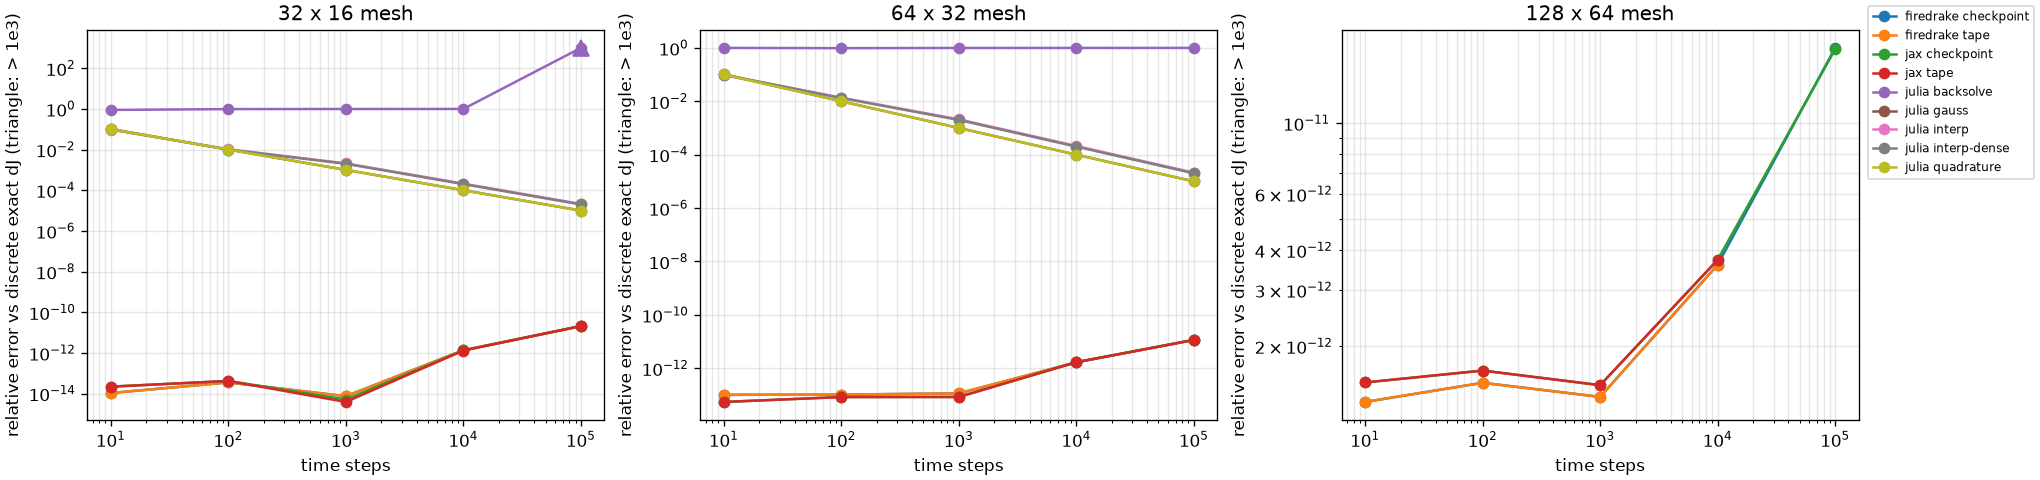
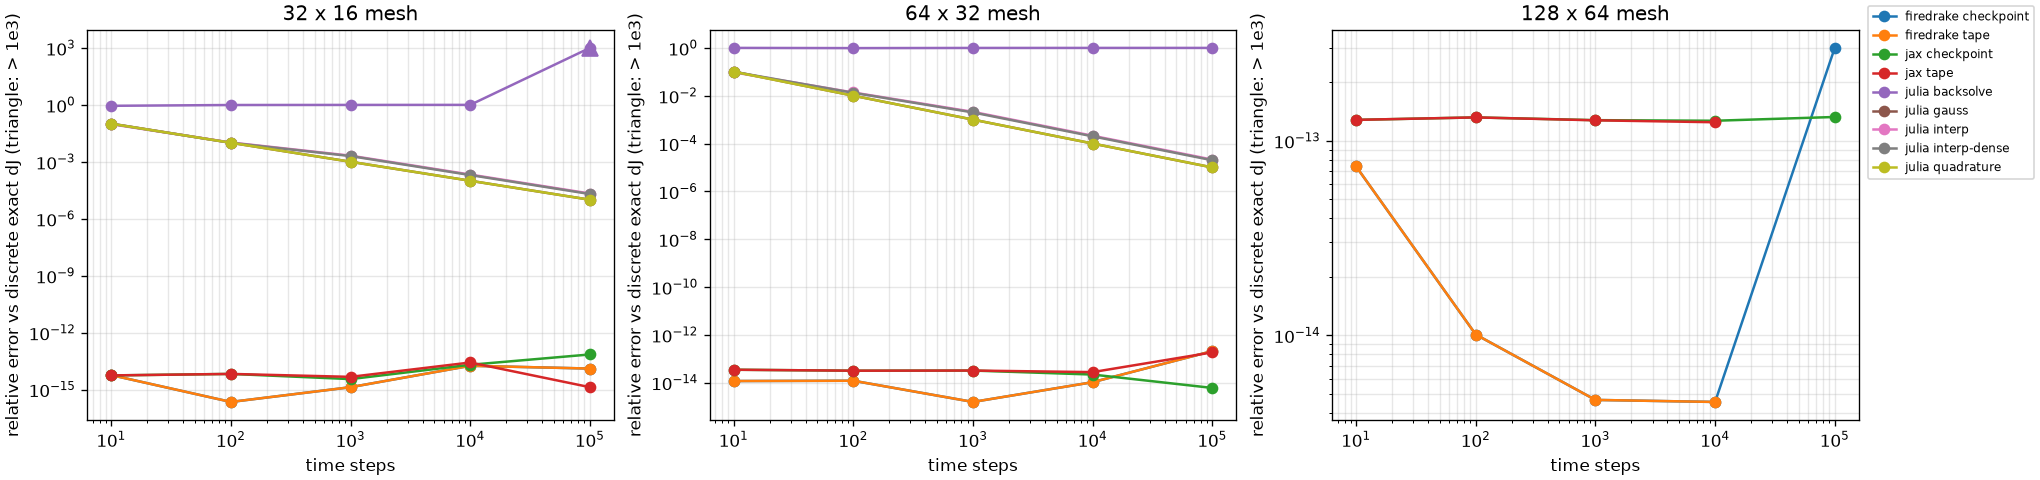
T4 run 1 (a growing tape's device memory equals XLA's memory analysis; tape refused at 128x64/1e5; gradients equal to the CPU run's) and an exact discrete reference in closed form with log1p (the eigh one was up to 2e-11 off)

diff --git a/spike/problem.py b/spike/problem.py
@@ -102,26 +102,28 @@ def discrete_exact(p: Problem, steps: int) -> tuple[float, float]:
 
     The Q1 matrices are tensor products, K = k0 (Kx (x) My + Mx (x) Ky) and M = Mx (x) My, and Ky annihilates
     constants. The initial temperature is a function of x alone, f (x) 1, so every backward Euler step stays of that
-    form and reduces to (Mx + dt k0 Kx) f_{n+1} = Mx f_n, with J = Ly f_N' Mx f_N. The 1D problem then has the
-    eigenvector closed form below (discrete_exact_dense does the same on the full 2D matrices, as a cross-check).
-    """
-    from scipy.linalg import eigh
+    form and reduces to (Mx + dt k0 Kx) f_{n+1} = Mx f_n, with J = Ly f_N' Mx f_N. The nodal values of
+    sin(pi x / 2 Lx) are an exact eigenvector of that 1D pencil (cold left end, insulated right end), with
+    eigenvalue lam1 = (6 k0 / h^2) (1 - cos th) / (2 + cos th), th = pi / (2 nx), so
 
+        J_h = Ly |f0|_M^2 (1 + dt lam1)^-2N,    dJ_h/deps = -2N dt lam1 J_h / (1 + dt lam1).
+
+    The power is taken as exp(-2N log1p(dt lam1)), since raising the rounded 1 + dt lam1 to -2N would amplify its
+    rounding by 2N, and lam1 in closed form, since a numerical eigensolver's is about 1e-12 off on fine meshes.
+    discrete_exact_dense solves the full 2D eigenproblem as a cross-check.
+    """
     h, n = p.Lx / p.nx, p.nx + 1
-    Kx, Mx = np.zeros((n, n)), np.zeros((n, n))
+    Mx = np.zeros((n, n))
     for e in range(p.nx):
         i = [e, e + 1]
-        Kx[np.ix_(i, i)] += p.k0 / h * np.array([[1.0, -1.0], [-1.0, 1.0]])
         Mx[np.ix_(i, i)] += h / 6 * np.array([[2.0, 1.0], [1.0, 2.0]])
-    Kx, Mx = Kx[1:, 1:], Mx[1:, 1:]  # x = 0 held at zero
-    x = np.linspace(0.0, p.Lx, n)[1:]
-    lam, V = eigh(Kx, Mx)
-    c = V.T @ (Mx @ np.sin(np.pi * x / (2 * p.Lx)))
-    dt = p.t_end / steps
-    q = 1.0 + dt * lam
-    J = p.Ly * float(np.sum(c**2 * q ** (-2.0 * steps)))
-    dJ = p.Ly * float(np.sum(-2.0 * steps * c**2 * dt * lam * q ** (-2.0 * steps - 1)))
-    return J, dJ
+    Mx = Mx[1:, 1:]  # x = 0 held at zero
+    f0 = np.sin(np.pi * np.linspace(0.0, p.Lx, n)[1:] / (2 * p.Lx))
+    th = np.pi / (2 * p.nx)
+    lam1 = 6 * p.k0 / h**2 * (2 * np.sin(th / 2) ** 2) / (2 + np.cos(th))  # 1 - cos th without cancellation
+    a = p.t_end / steps * lam1
+    J = p.Ly * float(f0 @ Mx @ f0) * np.exp(-2.0 * steps * np.log1p(a))
+    return float(J), float(-2.0 * steps * a / (1.0 + a) * J)
 
 
 def discrete_exact_dense(p: Problem, steps: int) -> tuple[float, float]:
@@ -138,9 +140,9 @@ def discrete_exact_dense(p: Problem, steps: int) -> tuple[float, float]:
     lam, V = eigh(K, M)  # V' M V = I
     c = V.T @ (M @ initial_temperature(coords, p)[free])
     dt = p.t_end / steps
-    q = 1.0 + dt * lam
-    J = float(np.sum(c**2 * q ** (-2.0 * steps)))
-    dJ = float(np.sum(-2.0 * steps * c**2 * dt * lam * q ** (-2.0 * steps - 1)))
+    a = dt * lam
+    J = float(np.sum(c**2 * np.exp(-2.0 * steps * np.log1p(a))))
+    dJ = float(np.sum(-2.0 * steps * c**2 * a * np.exp((-2.0 * steps - 1) * np.log1p(a))))
     return J, dJ
 
 
@@ -167,7 +169,7 @@ if __name__ == "__main__":
     p = Problem(nx=16, ny=8)
     for steps in (10, 1000, 100000):  # the separable oracle against the dense 2D one
         a, b = discrete_exact(p, steps), discrete_exact_dense(p, steps)
-        assert abs(a[0] / b[0] - 1) < 1e-10 and abs(a[1] / b[1] - 1) < 1e-10, (steps, a, b)
+        assert abs(a[0] / b[0] - 1) < 1e-12 and abs(a[1] / b[1] - 1) < 1e-12, (steps, a, b)
     for steps in (10, 100, 1000):
         Jh = reference_solve(p, np.ones(p.n_cells), steps)
         print(f"steps {steps:5d}  J_h {Jh:.6f}  exact {p.exact_J():.6f}  rel err {abs(Jh / p.exact_J() - 1):.2e}")

diff --git a/results/t4-run-1/summary.md b/results/t4-run-1/summary.md
@@ -1,0 +1,124 @@
+# mosaic#375 idea 4: transient heat, Tesla T4 sweep
+
+Peak resident memory in MB of the whole process, and in brackets its growth above the peak of a 10-step
+warm-up in the same process (what the measured run needed on top of a compiled process); failures with
+the peak reached. Peaks are high-water marks: growth below the warm-up peak shows as +0.
+
+
+## 32 x 16 mesh (544 unknowns)
+
+**Peak memory (MB)**
+
+| backend | strategy | 10 steps | 100 steps | 1000 steps | 10000 steps | 100000 steps |
+|---|---|---|---|---|---|---|
+| jax | checkpoint | 1567 (+14) | 1569 (+14) | 1564 (+13) | 1562 (+12) | 1571 (+16) |
+| jax | tape | 1555 (+13) | 1556 (+9) | 1558 (+10) | 1556 (+9) | 1564 (+10) |
+
+**Peak device memory (MB)** (the accelerator allocator's peak bytes in use; in brackets its growth over the warm-up; the allocator's limit is 14.6 GB)
+
+| backend | strategy | 10 steps | 100 steps | 1000 steps | 10000 steps | 100000 steps |
+|---|---|---|---|---|---|---|
+| jax | checkpoint | 96.1 (+0) | 96.1 (+0) | 96.1 (+0) | 96.1 (+0) | 96.1 (+0) |
+| jax | tape | 96.1 (+0) | 96.1 (+0) | 96.1 (+0) | 160 (+64.3) | 1567 (+1471) |
+
+**Gradient time (s)**
+
+| backend | strategy | 10 steps | 100 steps | 1000 steps | 10000 steps | 100000 steps |
+|---|---|---|---|---|---|---|
+| jax | checkpoint | 0.0203 | 0.0973 | 0.396 | 3.97 | 39.4 |
+| jax | tape | 0.0112 | 0.0699 | 0.254 | 2.52 | 25.1 |
+
+**Gradient along uniform conductivity, relative error against the exact gradient of the discrete scheme** (the differentiation error alone)
+
+| backend | strategy | 10 steps | 100 steps | 1000 steps | 10000 steps | 100000 steps |
+|---|---|---|---|---|---|---|
+| jax | checkpoint | 4.7e-15 | 6.7e-15 | 1.0e-14 | 4.2e-15 | 1.3e-14 |
+| jax | tape | 4.9e-15 | 8.4e-15 | 4.4e-15 | 1.8e-14 | 4.9e-15 |
+
+**The same against the closed form of the continuous problem** (includes the mesh's spatial error)
+
+| backend | strategy | 10 steps | 100 steps | 1000 steps | 10000 steps | 100000 steps |
+|---|---|---|---|---|---|---|
+| jax | checkpoint | 2.1e-03 | 6.2e-04 | 6.0e-04 | 6.0e-04 | 6.0e-04 |
+| jax | tape | 2.1e-03 | 6.2e-04 | 6.0e-04 | 6.0e-04 | 6.0e-04 |
+
+## 64 x 32 mesh (2112 unknowns)
+
+**Peak memory (MB)**
+
+| backend | strategy | 10 steps | 100 steps | 1000 steps | 10000 steps | 100000 steps |
+|---|---|---|---|---|---|---|
+| jax | checkpoint | 1566 (+11) | 1558 (+5) | 1567 (+7) | 1564 (+11) | 1561 (+12) |
+| jax | tape | 1553 (+4) | 1555 (+0) | 1555 (+11) | 1556 (+6) | 1555 (+7) |
+
+**Peak device memory (MB)** (the accelerator allocator's peak bytes in use; in brackets its growth over the warm-up; the allocator's limit is 14.6 GB)
+
+| backend | strategy | 10 steps | 100 steps | 1000 steps | 10000 steps | 100000 steps |
+|---|---|---|---|---|---|---|
+| jax | checkpoint | 96.4 (+0) | 96.4 (+0) | 96.4 (+0) | 96.4 (+0) | 96.4 (+0) |
+| jax | tape | 96.4 (+0) | 96.4 (+0) | 96.4 (+0) | 630 (+533) | 6255 (+6158) |
+
+**Gradient time (s)**
+
+| backend | strategy | 10 steps | 100 steps | 1000 steps | 10000 steps | 100000 steps |
+|---|---|---|---|---|---|---|
+| jax | checkpoint | 0.0401 | 0.149 | 0.551 | 4.52 | 45.1 |
+| jax | tape | 0.0225 | 0.113 | 0.357 | 3.09 | 30.6 |
+
+**Gradient along uniform conductivity, relative error against the exact gradient of the discrete scheme** (the differentiation error alone)
+
+| backend | strategy | 10 steps | 100 steps | 1000 steps | 10000 steps | 100000 steps |
+|---|---|---|---|---|---|---|
+| jax | checkpoint | 3.0e-14 | 3.2e-14 | 2.8e-14 | 3.2e-14 | 3.4e-14 |
+| jax | tape | 3.0e-14 | 3.3e-14 | 3.4e-14 | 4.5e-14 | 2.3e-13 |
+
+**The same against the closed form of the continuous problem** (includes the mesh's spatial error)
+
+| backend | strategy | 10 steps | 100 steps | 1000 steps | 10000 steps | 100000 steps |
+|---|---|---|---|---|---|---|
+| jax | checkpoint | 1.7e-03 | 1.7e-04 | 1.5e-04 | 1.5e-04 | 1.5e-04 |
+| jax | tape | 1.7e-03 | 1.7e-04 | 1.5e-04 | 1.5e-04 | 1.5e-04 |
+
+## 128 x 64 mesh (8320 unknowns)
+
+**Peak memory (MB)**
+
+| backend | strategy | 10 steps | 100 steps | 1000 steps | 10000 steps | 100000 steps |
+|---|---|---|---|---|---|---|
+| jax | checkpoint | 1564 (+15) | 1562 (+13) | 1572 (+16) | 1564 (+17) | 1561 (+15) |
+| jax | tape | 1550 (+4) | 1552 (+10) | 1554 (+7) | 1556 (+9) | out of memory: needs 24.4 GB |
+
+**Peak device memory (MB)** (the accelerator allocator's peak bytes in use; in brackets its growth over the warm-up; the allocator's limit is 14.6 GB)
+
+| backend | strategy | 10 steps | 100 steps | 1000 steps | 10000 steps | 100000 steps |
+|---|---|---|---|---|---|---|
+| jax | checkpoint | 97.8 (+0) | 97.7 (+0) | 97.8 (+0) | 97.8 (+0) | 97.8 (+0) |
+| jax | tape | 97.8 (+0) | 97.8 (+0) | 257 (+159) | 2507 (+2409) | out of memory: needs 24.4 GB |
+
+**Gradient time (s)**
+
+| backend | strategy | 10 steps | 100 steps | 1000 steps | 10000 steps | 100000 steps |
+|---|---|---|---|---|---|---|
+| jax | checkpoint | 0.0921 | 0.245 | 1.24 | 8.6 | 82.5 |
+| jax | tape | 0.0709 | 0.151 | 0.763 | 5.76 | - |
+
+**Gradient along uniform conductivity, relative error against the exact gradient of the discrete scheme** (the differentiation error alone)
+
+| backend | strategy | 10 steps | 100 steps | 1000 steps | 10000 steps | 100000 steps |
+|---|---|---|---|---|---|---|
+| jax | checkpoint | 1.3e-13 | 1.3e-13 | 1.3e-13 | 1.3e-13 | 1.1e-13 |
+| jax | tape | 1.2e-13 | 1.3e-13 | 1.3e-13 | 1.2e-13 | - |
+
+**The same against the closed form of the continuous problem** (includes the mesh's spatial error)
+
+| backend | strategy | 10 steps | 100 steps | 1000 steps | 10000 steps | 100000 steps |
+|---|---|---|---|---|---|---|
+| jax | checkpoint | 1.5e-03 | 5.4e-05 | 3.8e-05 | 3.8e-05 | 3.8e-05 |
+| jax | tape | 1.5e-03 | 5.4e-05 | 3.8e-05 | 3.8e-05 | - |
+
+## Gradient against finite differences of the same backend's forward (16 x 8 mesh, 100 steps)
+
+| backend | strategy | grad . d | central FD | relative difference |
+|---|---|---|---|---|
+| jax | checkpoint | -0.003175832244 | -0.003175832245 | 1.1e-10 |
+| jax | tape | -0.003175832244 | -0.003175832245 | 2.4e-10 |

diff --git a/docs/log.md b/docs/log.md
@@ -53,7 +53,8 @@
   (64 x 32), and on 128 x 64 XLA refuses up front (it asks for 26216674456 bytes, 24.4 GB); pyadjoint +4.4 and
   +9.0 GB, killed at 13 GB on 128 x 64. JAX checkpointing stays within +102 MB on every mesh, at 1.6-1.8 times the
   tape's time at 1e5 steps on the two meshes where the tape finished. Gradients of JAX and pyadjoint agree with the
-  exact discrete gradient to 2.1e-11 or better everywhere. (GB here is 1024 MB, as in the tables.)
+  exact discrete gradient to 3e-13 or better everywhere (see the correction below). (GB here is 1024 MB, as in
+  the tables.)
 - pyadjoint's Revolve does not give flat memory: +0.64, +0.84 and +1.6 GB at 1e5 steps on the three meshes
   (against +4.4, +9.0 and over 13 GB for its tape), at 2.2-3.3 times the tape's time, with pyadjoint's default
   settings; from 1e4 to 1e5 steps it grows 6.5, 8.4 and 15.6 KB/step. repro/pyadjoint_checkpoint_memory.py
@@ -81,3 +82,23 @@
 - Times for Revolve without periodic collection against gc_timestep_frequency = 50
   (repro/pyadjoint_checkpoint_memory.py, this laptop under load): 10 s against 14 s and 46 s against 58 s at 1000
   and 4000 steps on 128 x 64; 5 s against 10 s and 21 s against 40 s on 32 x 16.
+- T4 (Kaggle, results/t4-run-1). Run 1 failed in 2 minutes: the image's jax-cuda13 0.11.1 plugin and the
+  installed jax-cuda12 0.12.1 one both registered "cuda", JAX 0.12.1 discovers plugins from a set so each process
+  started whichever won, and the old one rejected the new client option memory_fraction_policy (7 of 13 cases).
+  Run 2 removes the image's plugin and probes with a real tiny case first. Result: device memory of the tape equals
+  XLA's memory analysis of the compiled gradient to 1.1 MB; tape at 128 x 64, 1e5 steps refused (24.42 GiB against
+  a 14.6 GB allocator limit); checkpointing at most 94 MB of temporaries; gradients equal to the CPU CI run's to
+  8.4e-14 relative. So for the growing tapes XLA's memory analysis, which works on any platform without running
+  the case, predicted the GPU memory; whether it does for checkpointed cases is not measured (they stay under the
+  96 MB device floor).
+- Correction to the gradient and J errors above and on 2026-11-19: the "exact discrete" reference in
+  spike/problem.py was itself up to 2.1e-11 off at 1e5 steps. It raised the rounded 1 + dt lam to the power -2N,
+  which amplifies that rounding by 2N, and the dense cross-check used the same formula, so the two agreed; on
+  128 x 64 eigh's lowest eigenvalue was also about 1e-12 off, about 2e-12 in J at every step count. Against a
+  40-digit evaluation of the same closed form, JAX's gradients (CPU and T4) are within 2.3e-13 and pyadjoint's
+  within 3.0e-13, and JAX's forward J within 2.7e-13, so the "2e-11 at 1e5 steps" (and the "forward J drifts by the
+  same amount" of 2026-11-19) was the reference's error, not the solvers'. JAX's gradient error is about 5e-15,
+  3e-14 and 1.3e-13 on the three meshes up to 1000 steps and at most 2.3e-13 (64 x 32, tape, 1e5 steps); its J error
+  depends on the mesh, not the step count (about 2e-14, 7e-14, 2.6e-13). discrete_exact now uses the single-mode
+  closed form (the nodal sin(pi x / 2 Lx) is an exact eigenvector of the 1D pencil) with exp(-2N log1p(dt lam1)):
+  within 4.5e-16 of the 40-digit value on every mesh and step count here.

diff --git a/results/ci-run-1/summary.md b/results/ci-run-1/summary.md
@@ -39,10 +39,10 @@ the peak reached. Peaks are high-water marks: growth below the warm-up peak show
 
 | backend | strategy | 10 steps | 100 steps | 1000 steps | 10000 steps | 100000 steps |
 |---|---|---|---|---|---|---|
-| firedrake | checkpoint | 1.1e-14 | 3.6e-14 | 7.4e-15 | 1.4e-12 | 2.1e-11 |
-| firedrake | tape | 1.1e-14 | 3.6e-14 | 7.4e-15 | 1.4e-12 | 2.1e-11 |
-| jax | checkpoint | 2.2e-14 | 4.2e-14 | 5.1e-15 | 1.3e-12 | 2.1e-11 |
-| jax | tape | 2.2e-14 | 4.2e-14 | 3.9e-15 | 1.3e-12 | 2.1e-11 |
+| firedrake | checkpoint | 5.8e-15 | 2.2e-16 | 1.3e-15 | 1.8e-14 | 1.3e-14 |
+| firedrake | tape | 5.8e-15 | 2.2e-16 | 1.3e-15 | 1.8e-14 | 1.3e-14 |
+| jax | checkpoint | 5.6e-15 | 6.7e-15 | 3.6e-15 | 2.0e-14 | 7.1e-14 |
+| jax | tape | 5.6e-15 | 6.7e-15 | 4.7e-15 | 2.7e-14 | 1.3e-15 |
 | julia | backsolve | 8.9e-01 | 9.8e-01 | 9.9e-01 | 1.0e+00 | 5.3e+289 |
 | julia | gauss | 1.0e-01 | 1.0e-02 | 1.0e-03 | 1.0e-04 | 1.0e-05 |
 | julia | interp | 9.5e-02 | 1.0e-02 | 2.1e-03 | 2.1e-04 | 2.1e-05 |
@@ -97,10 +97,10 @@ the peak reached. Peaks are high-water marks: growth below the warm-up peak show
 
 | backend | strategy | 10 steps | 100 steps | 1000 steps | 10000 steps | 100000 steps |
 |---|---|---|---|---|---|---|
-| firedrake | checkpoint | 1.0e-13 | 1.0e-13 | 1.1e-13 | 1.7e-12 | 1.1e-11 |
-| firedrake | tape | 1.0e-13 | 1.0e-13 | 1.1e-13 | 1.7e-12 | 1.1e-11 |
-| jax | checkpoint | 5.5e-14 | 8.3e-14 | 8.4e-14 | 1.7e-12 | 1.2e-11 |
-| jax | tape | 5.5e-14 | 8.3e-14 | 8.4e-14 | 1.7e-12 | 1.1e-11 |
+| firedrake | checkpoint | 1.2e-14 | 1.2e-14 | 1.6e-15 | 1.0e-14 | 2.1e-13 |
+| firedrake | tape | 1.2e-14 | 1.2e-14 | 1.6e-15 | 1.0e-14 | 2.1e-13 |
+| jax | checkpoint | 3.5e-14 | 3.2e-14 | 3.2e-14 | 2.2e-14 | 6.0e-15 |
+| jax | tape | 3.5e-14 | 3.2e-14 | 3.2e-14 | 2.8e-14 | 1.8e-13 |
 | julia | backsolve | 1.0e+00 | 9.8e-01 | 1.0e+00 | 1.0e+00 | 1.0e+00 |
 | julia | gauss | 1.0e-01 | 1.0e-02 | 1.0e-03 | 1.0e-04 | 1.0e-05 |
 | julia | interp | 9.5e-02 | 1.4e-02 | 2.1e-03 | 2.1e-04 | 2.1e-05 |
@@ -145,10 +145,10 @@ the peak reached. Peaks are high-water marks: growth below the warm-up peak show
 
 | backend | strategy | 10 steps | 100 steps | 1000 steps | 10000 steps | 100000 steps |
 |---|---|---|---|---|---|---|
-| firedrake | checkpoint | 1.3e-12 | 1.5e-12 | 1.4e-12 | 3.6e-12 | 1.7e-11 |
-| firedrake | tape | 1.3e-12 | 1.5e-12 | 1.4e-12 | 3.6e-12 | - |
-| jax | checkpoint | 1.5e-12 | 1.7e-12 | 1.5e-12 | 3.7e-12 | 1.7e-11 |
-| jax | tape | 1.5e-12 | 1.7e-12 | 1.5e-12 | 3.7e-12 | - |
+| firedrake | checkpoint | 7.4e-14 | 1.0e-14 | 4.7e-15 | 4.6e-15 | 3.0e-13 |
+| firedrake | tape | 7.4e-14 | 1.0e-14 | 4.7e-15 | 4.6e-15 | - |
+| jax | checkpoint | 1.3e-13 | 1.3e-13 | 1.3e-13 | 1.3e-13 | 1.3e-13 |
+| jax | tape | 1.3e-13 | 1.3e-13 | 1.3e-13 | 1.2e-13 | - |
 
 **The same against the closed form of the continuous problem** (includes the mesh's spatial error)
 

diff --git a/README.md b/README.md
@@ -59,7 +59,8 @@ plots (the run's `summary` artifact). Saved runs go in `results/`.
 
 ## Results
 
-From CI run 1 ([results/ci-run-1/summary.md](results/ci-run-1/summary.md); notes in docs/log.md; GB = 1024 MB):
+From CI run 1 ([results/ci-run-1/summary.md](results/ci-run-1/summary.md)) and a T4 run
+([results/t4-run-1](results/t4-run-1/README.md)); notes in docs/log.md; GB = 1024 MB:
 
 - A full tape grows linearly with the step count: at 1e5 steps JAX needs +1.5 GB on 32 x 16 and +6.1 GB on
   64 x 32 and refuses 128 x 64 up front (it asks for 24.4 GB); pyadjoint needs +4.4 and +9.0 GB and is killed at
@@ -69,7 +70,12 @@ From CI run 1 ([results/ci-run-1/summary.md](results/ci-run-1/summary.md); notes
   time, default settings): its tape keeps three blocks per step (about 5-6 KB/step on both meshes measured), and
   garbage from the recomputation, which grows with the mesh, waits for the cycle collector; gc_timestep_frequency
   removes the second part at 1.2-2 times the time (repro/pyadjoint_checkpoint_memory.py, docs/log.md).
-- JAX and pyadjoint match the exact discrete gradient to 2.1e-11 or better; SciMLSensitivity's continuous adjoints
+- On a T4 GPU a growing JAX tape's device memory is what XLA's memory analysis of the compiled gradient predicts
+  (to 1.1 MB; 6254.7 MB against 6254.4 MB at 64 x 32 and 1e5 steps), 128 x 64 at 1e5 steps is refused (it asks for
+  24.4 GB, the allocator's limit is 14.6 GB), checkpointing needs at most 94 MB of temporaries by XLA's analysis,
+  and gradients equal the CPU run's to 8.4e-14.
+- JAX and pyadjoint match the exact gradient of the discrete scheme to 3e-13 or better at every step count and mesh
+  (JAX 2.3e-13 including the T4, pyadjoint 3.0e-13); SciMLSensitivity's continuous adjoints
   are O(dt) off (1e-5 to 2e-5 at 1e5 steps), and BacksolveAdjoint is 89-100 % off, except at 1e5 steps on 32 x 16,
   where it reaches 5.3e289.
 - k(T): with one Newton iteration per step, unrolled differentiation is 7-22 times closer to the converged gradient

diff --git a/results/t4-run-1/README.md b/results/t4-run-1/README.md
@@ -1,0 +1,20 @@
+# T4 run 1
+
+The JAX sweep on Kaggle's GPU T4 x2 (one T4 used, 15 GB, driver 580.178.04), private kernel run by gpu/push.sh at
+commit 4ad2e03 (the second attempt; the first failed at JAX start-up, see docs/log.md): JAX 0.12.1 with the
+jax-cuda12 plugin (the same XLA as the CPU CI tables; `environment.json` lists the JAX and NVIDIA packages),
+float64, one process per case through spike/run_case.py, cases one after another. `summary.md` and the plots were
+made here from these records with `python spike/summarise.py results/t4-run-1 results/t4-run-1`.
+
+- Device memory is the allocator's peak bytes in use; for a growing tape it matches XLA's memory analysis of the
+  compiled gradient (`xla_temp_mb`) to within 1.1 MB (0.6 MB with its argument and output buffers added; 64 x 32
+  at 1e5 steps: 6254.7 MB against 6254.4 MB). The device peak has a floor of about 96 MB, set before the measured
+  run, so below it only XLA's analysis is available (in the records, not in the summary): by it, checkpointing
+  needs at most 94 MB of temporaries, at 128 x 64 and 1e5 steps; that figure was not measured on the device.
+- Tape at 128 x 64 and 1e5 steps is refused up front: "Out of memory while trying to allocate 24.42GiB", against an
+  allocator limit of 14.6 GB.
+- Gradients are within 2.3e-13 of the exact gradient of the discrete scheme, and gradients and J agree with the CPU
+  CI run (results/ci-run-1) to 8.4e-14 and 1.5e-14 relative in every case both completed.
+- Times are float64 on a T4: slower than the CPU runner on 32 x 16, at 10 steps on every mesh and at 100 steps on
+  64 x 32; on 64 x 32 from 1000 steps checkpointing takes the same time or up to 6 % less and the tape 13-21 %
+  longer; faster on 128 x 64 from 100 steps (checkpoint at 1e5 steps: 82.5 s against 118 s).
